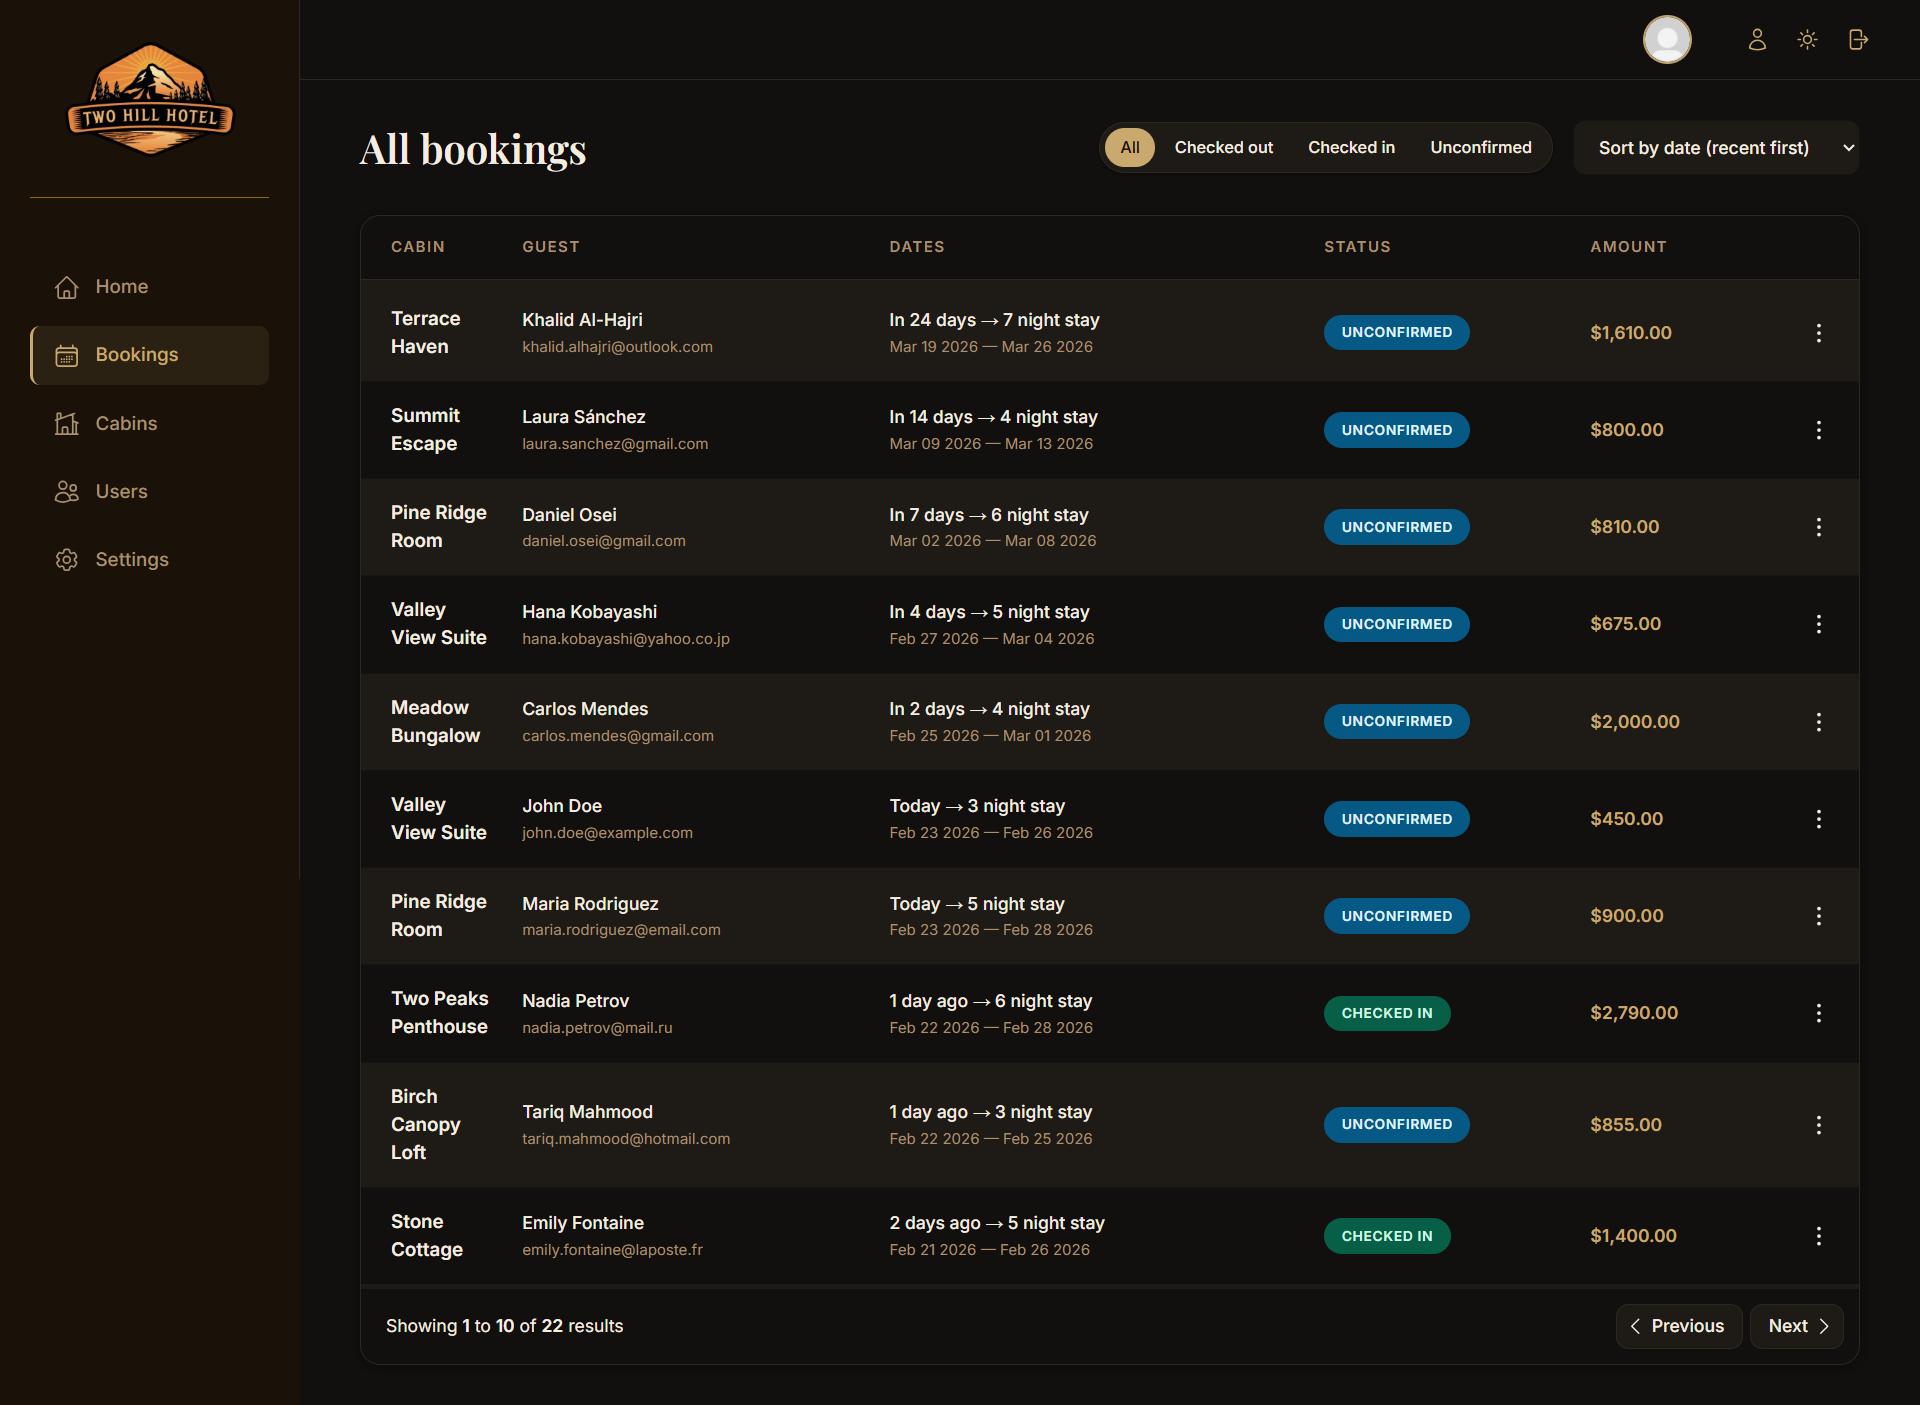
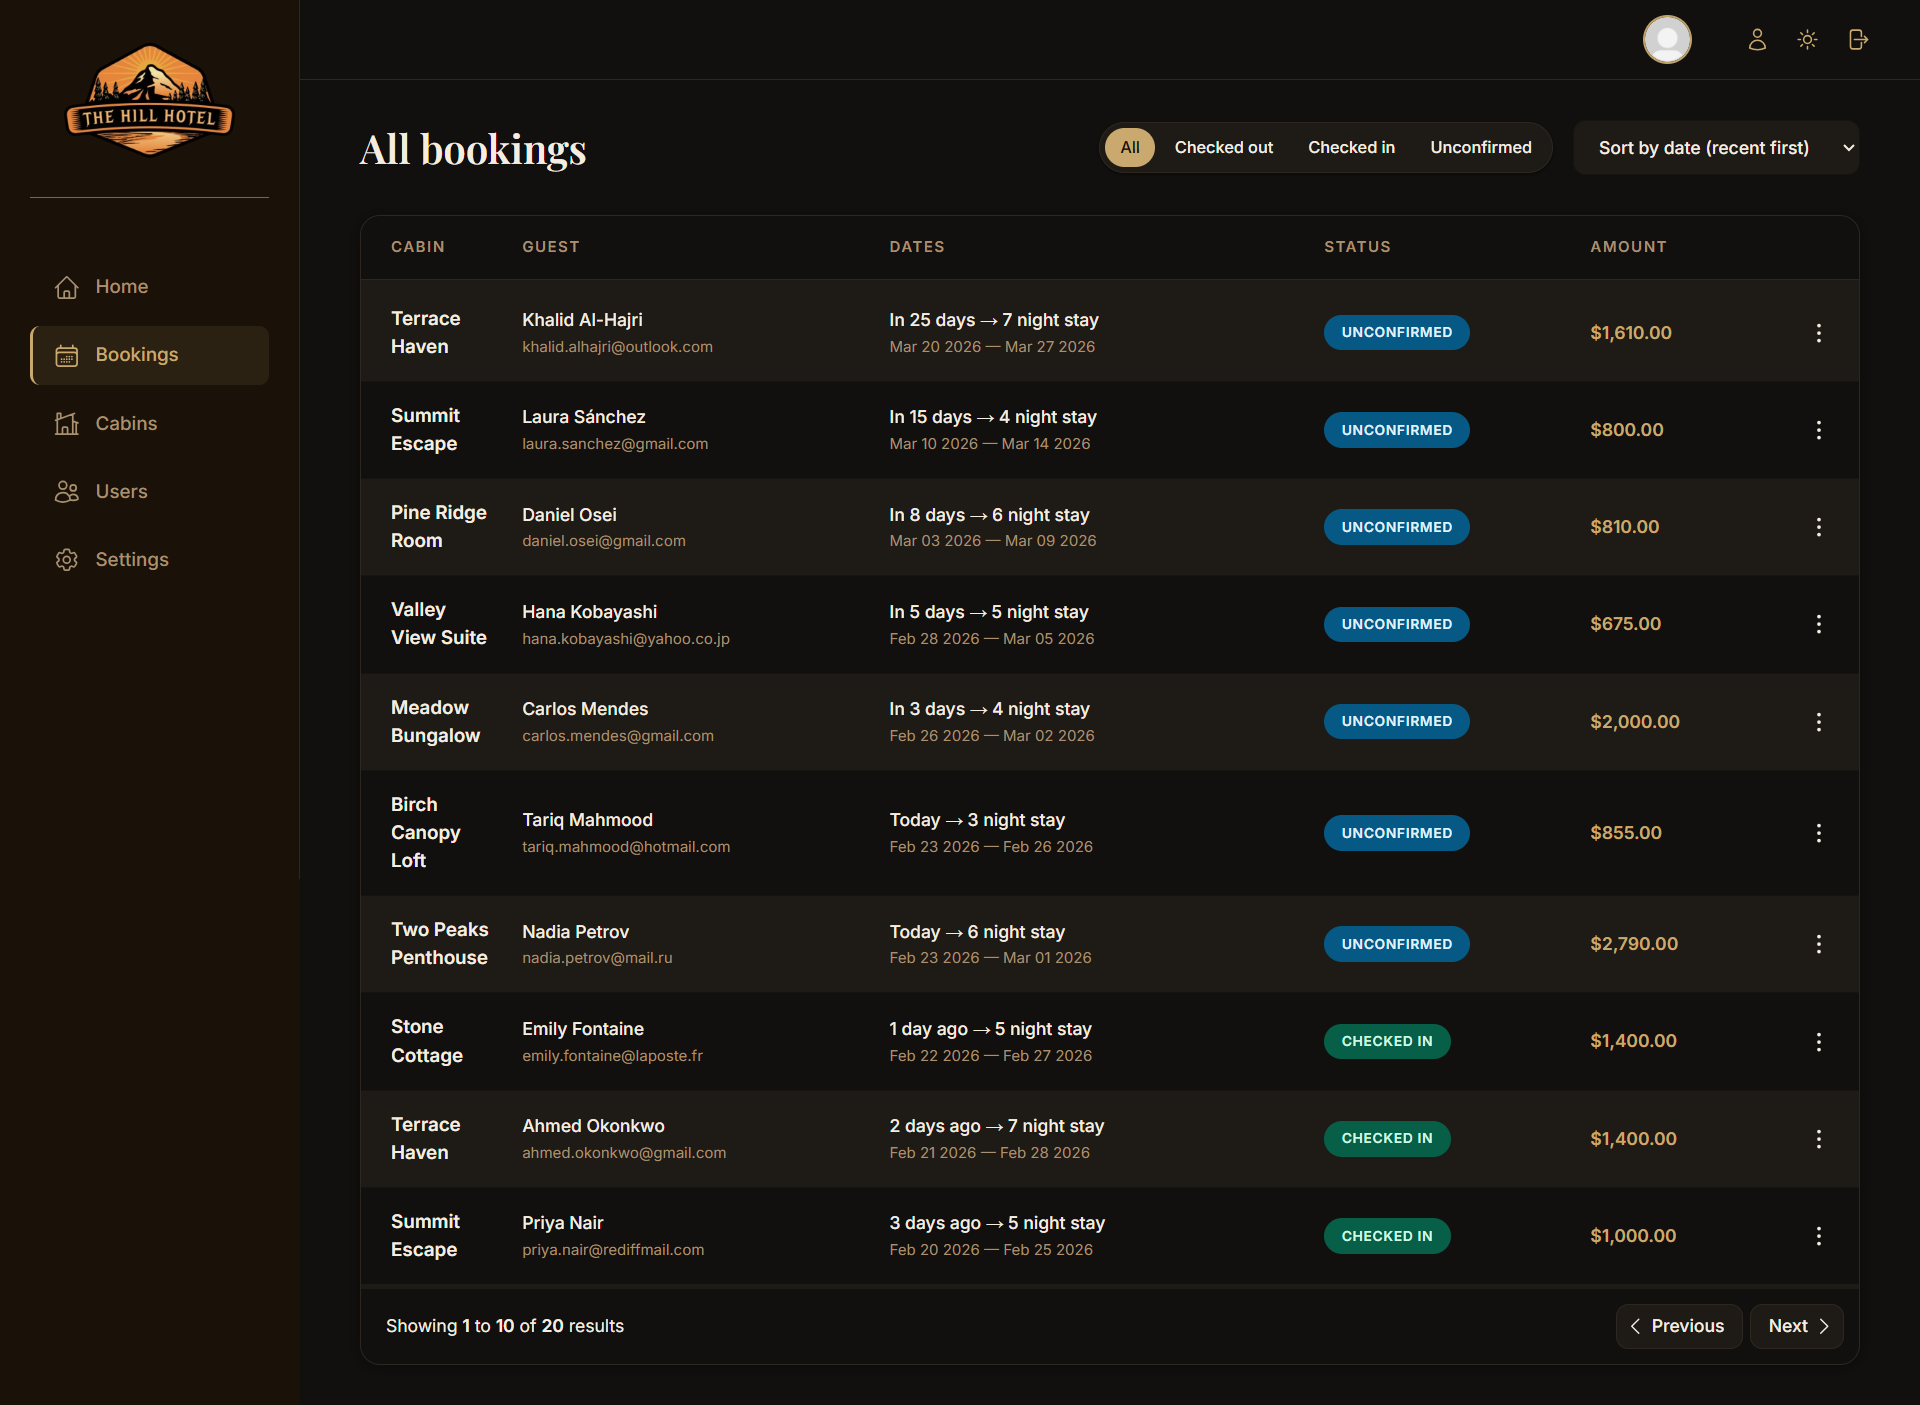
added new ss and thumbnail

diff --git a/README.md b/README.md
@@ -54,6 +54,9 @@ Welcome to <b>The Hill Hotel</b>! This is an internal hotel management web appli
 ### Cabins Management
 ![Cabins Page](./public/the-hill-hotel-cabins.png)
 
+### Check in Booking
+![Cabins Page](./public/the-hill-hotel-checkin.png)
+
 </div>
 
 ## Key Features
